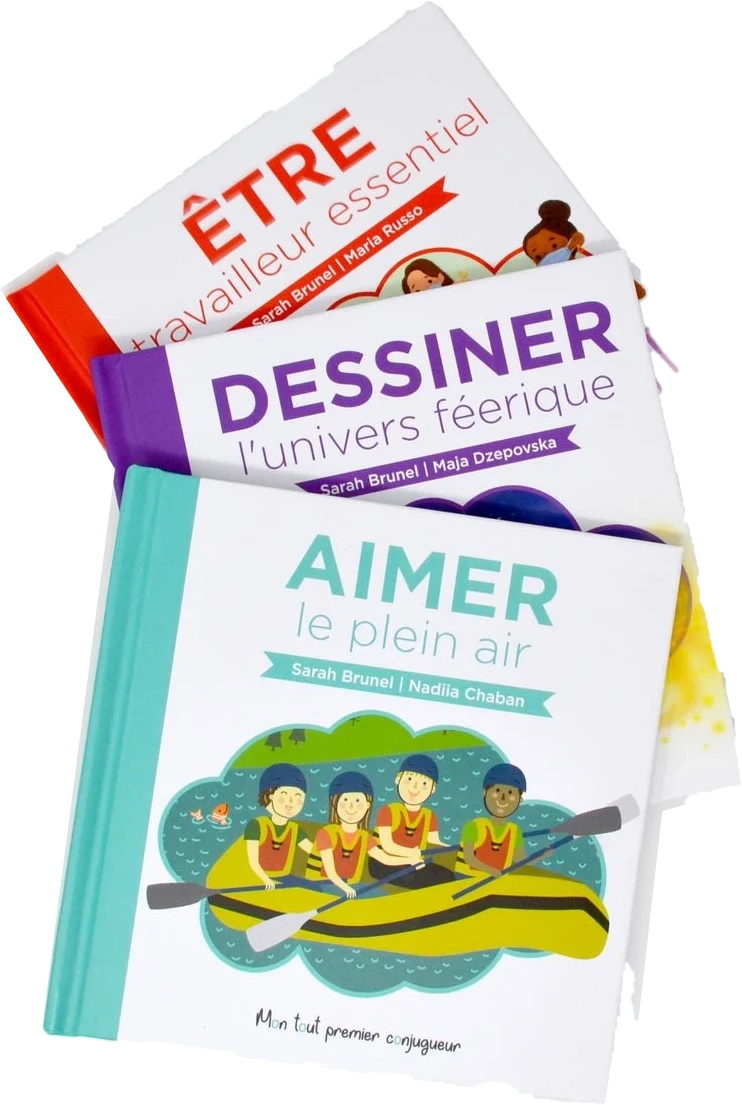
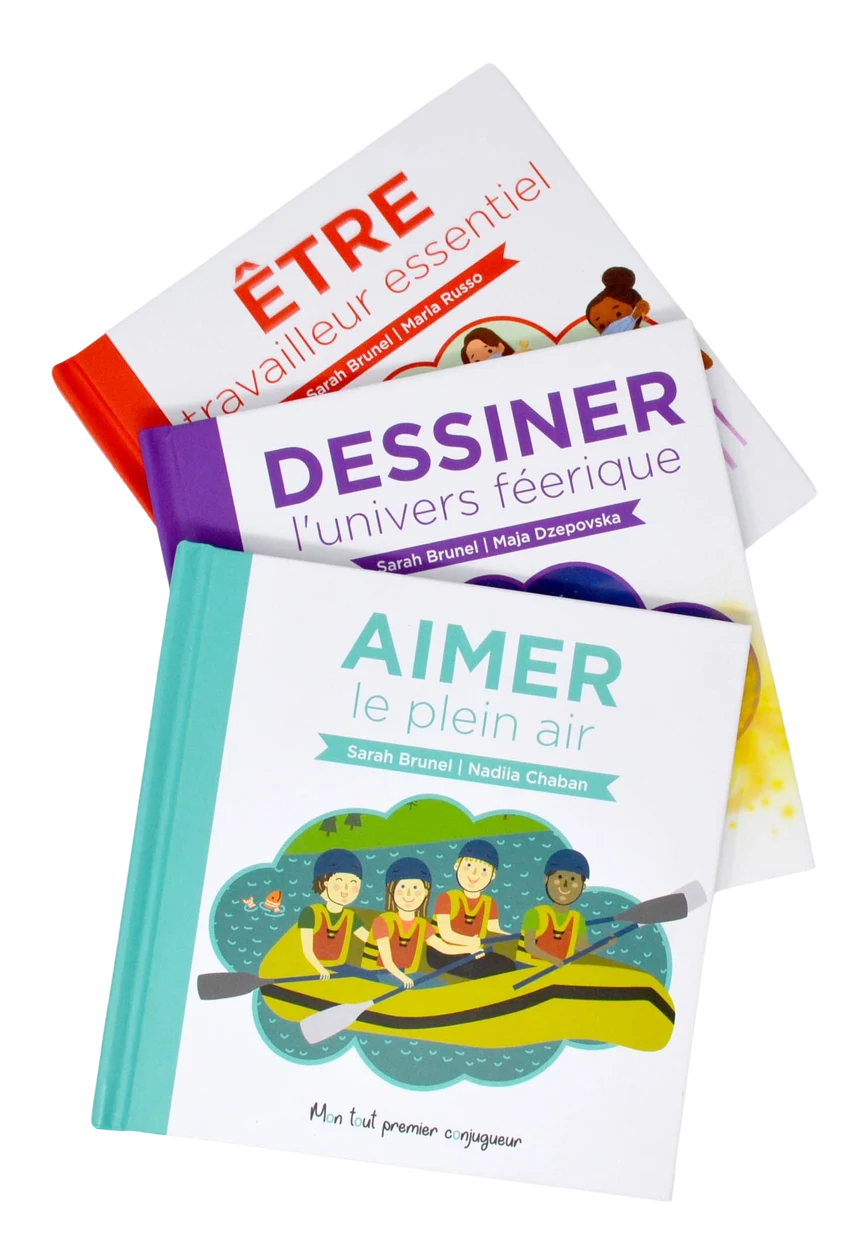
Children's Book (desktop): Figma layout and transparent Figma images, one-line header, aligned headings, tight back covers

diff --git a/work/childrens-book.html b/work/childrens-book.html
@@ -40,18 +40,18 @@
 
   <main id="main">
   <header class="cs-hero">
-    <h1>Cover<br />to cover</h1>
+    <h1>Cover<br class="br-mobile" /> to cover</h1>
     <p>A cover-to-cover book design for young readers, with each title pairing a new language lesson with the work of a different illustrator.</p>
   </header>
 
-  <section class="cs-section">
+  <section class="cs-section bk-story">
     <div class="cs-wrap cs-wrap--wide">
       <div class="cs-split cs-split--reverse cs-book-story"><div class="cs-media  reveal">
-        <img src="/img/book/lineup-3.jpg" alt="Être travailleur essentiel book standing with its series" loading="lazy" />
+        <img src="/img/book/fig-story.jpg" alt="Être travailleur essentiel book standing with its series" loading="lazy" />
       </div><div><div class="cs-copy reveal"><h2><span class="cs-d">The Children&#x27;s Book Story</span><span class="cs-m">Made for Storytime</span></h2><p>A complete book design, from cover to interior spreads to mockups, made to feel warm and inviting for young readers. Each title was brought to life by a different illustrator.</p></div><div class="cs-book-meta"><dl class="cs-meta reveal"><dt>Industry</dt><dd>Publishing</dd><dt>Service</dt><dd>Book cover &amp; layout design</dd></dl></div></div></div>
     </div>
   </section>
-  <section class="cs-section cs-book-tint">
+  <section class="cs-section bk-cover cs-book-tint">
     <div class="cs-wrap cs-book-tint__wrap">
       <div class="cs-book-cover reveal">
         <img src="/img/book/cover-cutout.webp" alt="Aimer le plein air book on a table" loading="lazy" />
@@ -60,34 +60,34 @@
       <div class="cs-copy cs-copy--accent reveal"><h2>Cover Design</h2><p>The book cover design needed to work as a small thumbnail online and as an eye-catching object on a book shelf.</p></div>
     </div>
   </section>
-  <section class="cs-section cs-section--flush">
+  <section class="cs-section bk-concept cs-section--flush">
     <div class="cs-wrap cs-wrap--full">
       <div class="cs-media cs-media--4 cs-book-crop cs-book-crop--concept reveal">
-        <img src="/img/book/concept-1.jpg" alt="Back cover concept, teal" loading="lazy" />
-        <img src="/img/book/concept-2.jpg" alt="Back cover concept, red" loading="lazy" />
-        <img src="/img/book/concept-3.jpg" alt="Back cover concept, purple" loading="lazy" />
-        <img src="/img/book/concept-4.jpg" alt="Front cover concept, purple" loading="lazy" />
+        <img src="/img/book/fig-concept-1.jpg" alt="Back cover concept, teal" loading="lazy" />
+        <img src="/img/book/fig-concept-2.jpg" alt="Back cover concept, red" loading="lazy" />
+        <img src="/img/book/fig-concept-3.jpg" alt="Back cover concept, purple" loading="lazy" />
+        <img src="/img/book/fig-concept-4.jpg" alt="Front cover concept, purple" loading="lazy" />
       </div>
       <div class="cs-copy reveal"><h2>Back Covers</h2><p>Several cover directions were mocked up and tested in context before landing on the final composition, colour palette, and typography.</p></div>
     </div>
   </section>
-  <section class="cs-section cs-section--flush cs-book-interior">
+  <section class="cs-section bk-interior cs-section--flush cs-book-interior">
     <div class="cs-wrap cs-wrap--full">
       <div class="cs-media cs-media--2 stack-sm cs-book-crop cs-book-crop--spread reveal">
-        <img src="/img/book/spread-1.jpg" alt="Interior spread with illustration" loading="lazy" />
-        <img src="/img/book/spread-2.jpg" alt="Interior spread with drawing activity" loading="lazy" />
+        <img src="/img/book/fig-spread-1.jpg" alt="Interior spread with illustration" loading="lazy" />
+        <img src="/img/book/fig-spread-2.jpg" alt="Interior spread with drawing activity" loading="lazy" />
       </div>
       <div class="cs-copy reveal"><h2>Interior Spreads</h2><p>Each interior spread balances illustration and text, with generous margins and a consistent visual rhythm.</p></div>
       <div class="cs-media cs-book-crop cs-book-crop--pack reveal">
-        <img src="/img/book/packaging.png" alt="Être travailleur essentiel on a desk" loading="lazy" />
+        <img src="/img/book/fig-packaging.webp" alt="Être travailleur essentiel on a desk" loading="lazy" />
       </div>
     </div>
   </section>
-  <section class="cs-section cs-section--flush cs-book-orange">
+  <section class="cs-section bk-orange cs-section--flush cs-book-orange">
     <div class="cs-wrap cs-wrap--full">
       <div class="cs-book-bonjour reveal">
-        <img src="/img/book/bonjour-1.jpg" alt="Bonjour-Hi interior spread" loading="lazy" />
-        <img src="/img/book/bonjour-2.jpg" alt="Bonjour-Hi interior spread, continued" loading="lazy" />
+        <img src="/img/book/bonjour-1.webp" alt="Bonjour-Hi interior spread" loading="lazy" />
+        <img src="/img/book/bonjour-2.webp" alt="Bonjour-Hi interior spread, continued" loading="lazy" />
       </div>
       <div class="cs-copy reveal"><h2>Bonjour-Hi</h2><p>A complete book design for a French children's story about bilingualism. Designing the cover, interior spreads and mockups.<br />Warm, sunny colours and friendly type bring this story to life for young readers.</p></div>
     </div>

diff --git a/src/styles/case-study.css b/src/styles/case-study.css
@@ -691,3 +691,47 @@ body.page-book { --u: calc(min(100vw, 1440px) / 1440); }
   .page-cuddle .cc-g-slothmask { left: calc(611.1 * var(--u)); top: calc(306.6 * var(--u)); width: calc(269.1 * var(--u)); height: calc(284.9 * var(--u)); transform: rotate(0.83deg); }
   .page-cuddle .cc-critters { min-height: 0; padding-block: calc(87 * var(--u)); }
 }
+
+/* ---------- Children's Book desktop: layout follows the Figma frame 2171:2 (1440 wide), scaled with --u ---------- */
+@media (min-width: 761px) {
+  .page-book .cs-section { padding-inline: 0; padding-bottom: 0; }
+  .page-book .cs-wrap { width: calc(1440 * var(--u)); max-width: none; margin-inline: auto; }
+
+  /* Story */
+  .page-book .bk-story { min-height: calc(871 * var(--u)); padding-top: calc(117 * var(--u)); }
+  .page-book .bk-story .cs-book-story {
+    grid-template-columns: calc(660 * var(--u)) calc(498 * var(--u)); column-gap: calc(36 * var(--u));
+    padding-left: calc(118 * var(--u)); align-items: start;
+  }
+  .page-book .bk-story .cs-media img { width: calc(660 * var(--u)); height: calc(659 * var(--u)); object-fit: cover; max-width: none; }
+  .page-book .bk-story .cs-copy { margin-top: calc(305 * var(--u)); max-width: none; }
+  .page-book .bk-story .cs-book-meta { margin-top: calc(40 * var(--u)); }
+
+  /* Cover design */
+  .page-book .bk-cover { min-height: calc(904 * var(--u)); padding-top: calc(44 * var(--u)); }
+  .page-book .bk-cover .cs-book-tint__wrap { width: calc(1440 * var(--u)); max-width: none; margin: 0 auto; }
+  .page-book .bk-cover .cs-book-cover { grid-template-columns: calc(692 * var(--u)) calc(428 * var(--u)); column-gap: calc(24 * var(--u)); margin-left: calc(122 * var(--u)); gap: calc(24 * var(--u)); align-items: start; }
+  .page-book .bk-cover .cs-book-cover img:first-child { margin-top: calc(87 * var(--u)); }
+  .page-book .bk-cover .cs-copy { margin-top: calc(53 * var(--u)); padding-left: 0; margin-left: calc(193 * var(--u)); max-width: calc(515 * var(--u)); }
+
+  /* Back covers: four images across nearly the full page width, hairline gaps, small margin at both sides */
+  .page-book .bk-concept { min-height: calc(757 * var(--u)); padding-top: calc(148 * var(--u)); }
+  .page-book .bk-concept .cs-wrap { width: 100%; }
+  .page-book .bk-concept .cs-book-crop { gap: 0; padding-inline: 8px; }
+
+  /* Interior spreads + packaging */
+  .page-book .bk-interior { min-height: calc(1721 * var(--u)); padding-top: 0; }
+  .page-book .cs-section--flush .cs-copy { max-width: calc(889 * var(--u)); }
+  .page-book .bk-concept .cs-copy { margin-top: calc(71 * var(--u)); }
+  /* The full-width sections centre the same 1440 column the other sections use, so every heading shares one left edge */
+  .page-book .bk-concept .cs-copy, .page-book .bk-interior .cs-copy { padding-left: calc(max(0px, (100% - 1440 * var(--u)) / 2) + 193 * var(--u)); max-width: none; }
+  .page-book .bk-interior .cs-wrap { width: 100%; }
+  .page-book .bk-interior .cs-copy { margin-top: calc(68 * var(--u)); }
+  .page-book .bk-interior .cs-book-crop--pack { margin-top: calc(61 * var(--u)); }
+
+  /* Bonjour-Hi */
+  .page-book .bk-orange { min-height: calc(1873 * var(--u)); padding-top: calc(127 * var(--u)); }
+  .page-book .bk-orange .cs-book-bonjour { padding: 0 0 0 calc(130 * var(--u)); gap: calc(7 * var(--u)); }
+  .page-book .bk-orange .cs-book-bonjour img { width: calc(1180 * var(--u)); max-width: none; }
+  .page-book .bk-orange .cs-copy { margin-top: calc(44 * var(--u)); }
+}
